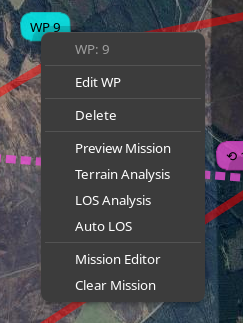
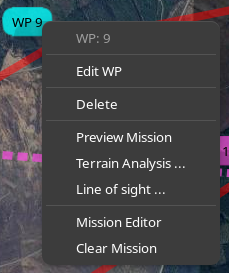
[LOS] minor UI tweaks

diff --git a/docs/manual/docs/mwp-los-tool.md b/docs/manual/docs/mwp-los-tool.md
@@ -19,14 +19,19 @@ Please be aware of these accuracy / fidelity issues when evaluating the results 
 
 ## Invocation
 
-LOS is invoked from any waypoint using the right mouse button. There are two specific options:
+LOS is invoked from any waypoint using the right mouse button.
 
 ![Menu Options](images/los-menu.png){: width="30%" }
 
-* **LOS Analysis** : The user can select locations on the mission via a slider and run an analysis. A LOS calculation is performed, a graphical view is shown and a red (no LOS), orange (LOS below a user defined margin) or green (unconditional LOS) line is displayed on the map from the observer (home location) to the chosen location. This may be repeated as required.
-* **Auto LOS** : The calculation is performed automatically with 1% increments of the mission length. A set of resulting red or green LOS lines is displayed om the map. This requires that the user has [applied their own Bing API key](#user-bing-key).
+## Line of sight ...
 
-Note that both options are also available from the LOS analysis window; the "Auto LOS" menu option is merely a convenience.
+The user can select locations on the mission via a slider and run an analysis. A LOS calculation is performed, a graphical view is shown and a red (no LOS), orange (LOS below a user defined margin) or green (unconditional LOS) line is displayed on the map from the observer (home location) to the chosen location. This may be repeated as required.
+
+## Auto LOS
+
+If the user has [applied their own Bing API key](#user-bing-key), then pressing a modifier key (Shift or Control) while selecting "Line of Sight ..."  will invoke **Auto LOS** ;  the calculation is performed automatically with 1% increments of the mission length. A set of resulting green/orange/red LOS lines is displayed on the map.
+
+Note that both options are available from the LOS analysis window; the modifier option is merely a convenience.
 
 ## Examples
 
@@ -40,11 +45,11 @@ This restriction means that the mission cannot be changed while a LOS Analysis i
 
 ### Manual LOS Analysis
 
-In the image below, the user has selected "LOS Analysis" from the right mouse menu at WP9. The slider is positioned appropriate to WP9. Note that if the mission contains JUMP WPs, these are executed once only (regardless of the mission setting). This is why the slider might appear less advanced compared to the mission length if the JUMP is ignored. The user can reposition the WP using the slider.
+In the image below, the user has selected "Line of Sight ..." from the right mouse menu at WP9. The slider is positioned appropriate to WP9. Note that if the mission contains JUMP WPs, these are executed once only (regardless of the mission setting). This is why the slider might appear less advanced compared to the mission length if the JUMP is ignored. The user can reposition the WP using the slider (or the start / end buttons).
 
 When "Point LOS" is clicked, the LOS is calculated between planned home (brown icon, lower left) and the red "⨁" "Point of Interest" (POI) icon. This is displayed as a terrain plot with the LOS line superimposed over the terrain elevation. The line is red as there is no LOS (and it would be green where there is LOS). A red "dot-dash" is also displayed on the map. If a margin is specified, then LOS lines with clearance between the terrain and the margin value are shown in orange.
 
-The user may repeat the "move slider" / "Point LOS" action as required. The prior terrain plot is removed each time "Point LOS" is selected; the lines on the map are removed when the slider dialog is closed. "Auto LOS" may be used to run a continuous analysis from the currently selected location.
+The user may repeat the "move slider" / "Point LOS" action as required. The prior terrain plot is removed each time "Point LOS" is selected; the lines on the map are removed when the slider dialog is closed. "Auto LOS" may be used to run a continuous analysis from the currently selected location. "Auto LOS" may be started / stopped at any point (and Point Analysis invoked at any time when stopped).
 
 When an analysis results in an orange or red LOS line, the first point where the LOS break is detected is shown on the line as a coloured blob. This is apparent in the Auto image below.
 
@@ -58,7 +63,20 @@ If the user has specified a [user supplied Bing API key](#user-bing-api-key), th
 
 The image shows the state after a complete "Auto" analysis. While the analysis is running, the slider and "Point LOS" are not sensitive; once the run has completed, these controls are available if the user wishes to investigate further. The user can stop (and restart) Auto  using the "Auto LOS" / "Stop" button.
 
-Here, the user has subsequently used "Point LOS" to examine a point in the orange region. As expected, there is very little clearance between the LOS line and the terrain. This is confirmed on the map plot where the "blobs" indicate the point where LOS is compromised.
+Here, the user has subsequently used "Point LOS" to examine a point in the orange region. As expected, there is very little clearance between the LOS line and the terrain. This is confirmed on the map plot where the "blobs" (immediately to the right of the plot window close button) indicate the point where LOS is compromised.
+
+It is important to note that Auto LOS is performed at 1% increments of the mission distance, it is not continuous. In the above case, there is a point at 34.1% where there is no LOS.
+
+![Bad LOS](images/fail-los.png)
+
+If you press a modifier (Shift or Control) while invoking "Auto LOS", you get 0.1% increments, which may be used to investigate small segments (it will be slow ... and resource intensive). Here a detailed analysis has been run from 33.6% to 34.6% which captures the instance of complete loss of LOS.
+
+![Auto_no LOS](images/auto-bad-los.png)
+
+
+Caveat user!
+
+There is also a You Tube video (uses a slightly earlier UI iteration).
 
 <iframe width="768" height="634" src="https://www.youtube.com/embed/EIm8vksK1Pg" title="mwp LOS (Line of Sight) Tool" frameborder="0" allow="accelerometer; autoplay; clipboard-write; encrypted-media; gyroscope; picture-in-picture; web-share" allowfullscreen></iframe>
 
@@ -75,4 +93,4 @@ The user's Bing API key should be added to the user's `$HOME/.config/mwp/cmdopts
     MWP_TIME_FMT=%T.%f
     MWP_BING_KEY=Axxxxxxxxxxxxxxxxxxxxxxxxxxxxxxxxxxxxxxx
 
-This requirement is to help prevent the generic application API key running into usage limits. Using your own key will help ensure the availability of Bing map products for all users.
+This requirement is to help prevent the generic application API key exceeding usage limits. Using your own key will help ensure the availability of Bing map products for all users.
